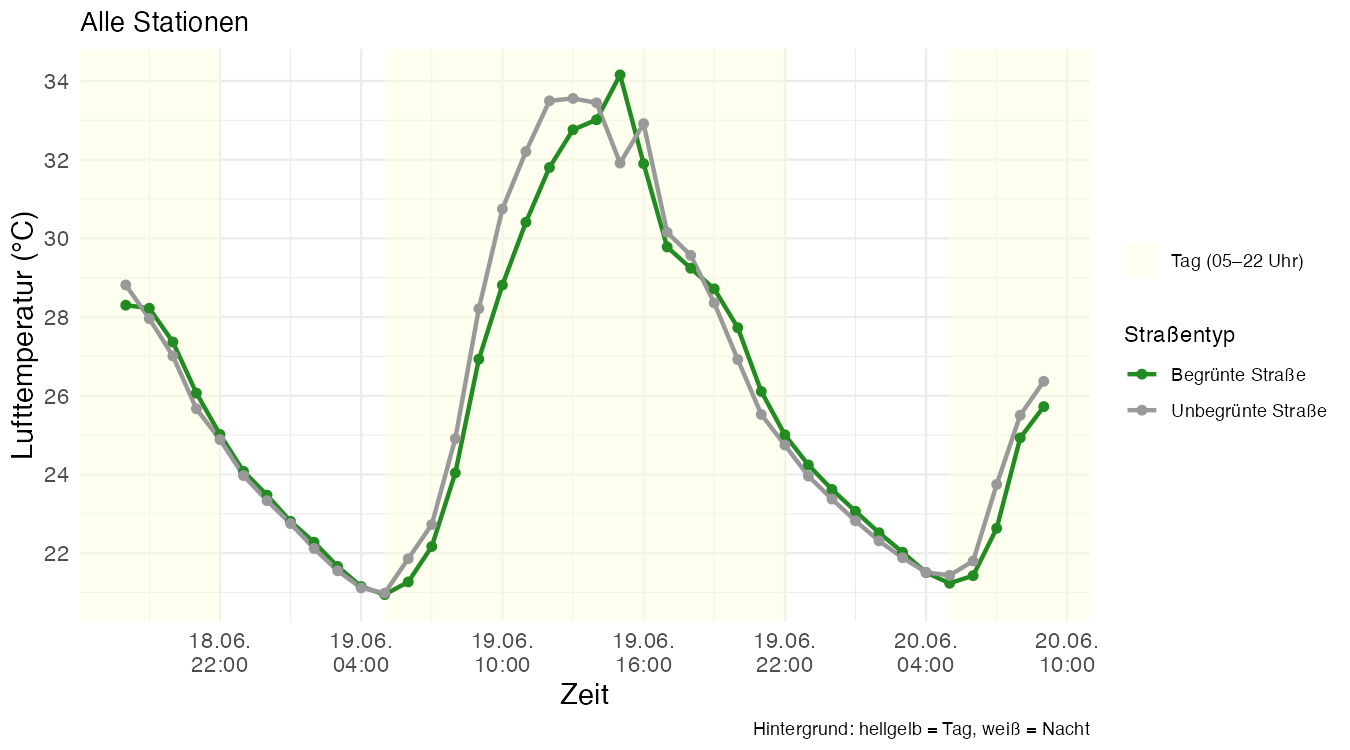
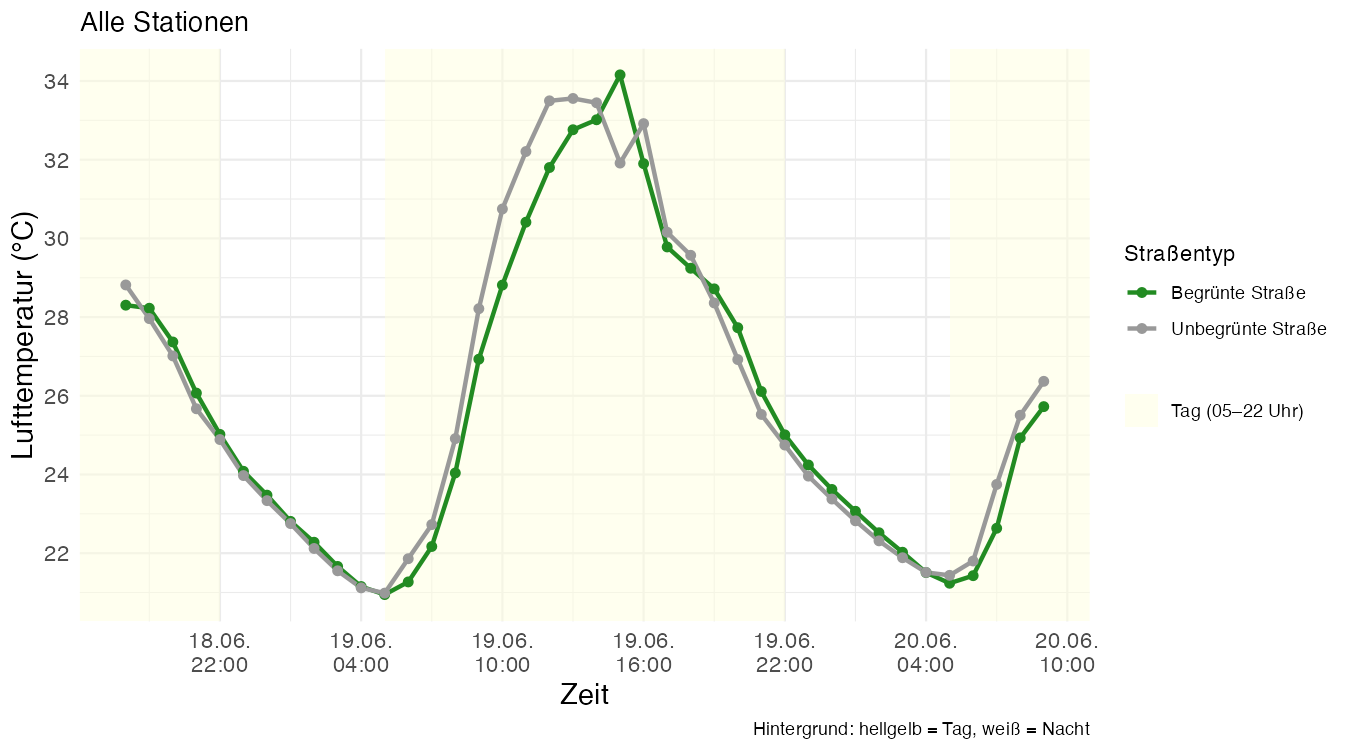
Portable Datenpfade und README fuer Setup
Datenpfad in allen Skripten portabel: Umgebungsvariable CAMPAIGN_RDS, sonst
data/ im Repo, sonst CONTEXT/ daneben. README mit Setup-Anleitung ergaenzt,
data/ und *.rds in .gitignore aufgenommen.

Changed region(s): [[0.84, 0.4907, 0.9956, 0.5827], [0.84, 0.3067, 0.9644, 0.3987], [0.84, 0.4293, 0.9956, 0.46]]

diff --git a/README.md b/README.md
@@ -1,0 +1,106 @@
+# Temperaturmessung 2026: Datenanalyse Stadtklima
+
+Auswertung einer städtischen Messkampagne, die eine **begrünte (baumbestandene) Straße** mit einer
+**unbegrünten Straße** vergleicht. Zentrale Frage: Bleibt die begrünte Straße kühler, und um wie
+viel, bei der **Lufttemperatur** und der **Oberflächentemperatur**?
+
+Die Kampagne umfasst 40 Messrunden über rund 40 Stunden (18. bis 20.06.2026) an 8 Stationen, davon
+4 an der begrünten Straße (Husemann) und 4 an der unbegrünten (Hagenauer).
+
+## Inhalt des Repositories
+
+```
+.
+├── CLAUDE.md            # ausführliches Projekt-Briefing (Daten, Spalten, Konventionen)
+├── README.md            # diese Datei
+├── skripte/             # R-Skripte, je ein Skript pro Auswertung
+│   ├── *.R              #   die Analyse
+│   ├── *.md             #   der zugehörige deutsche Ergebnisbericht (gleicher Name)
+│   └── wind_sidequest/  #   abgeschlossene Nebenuntersuchung Wind (kein klares Ergebnis)
+└── plots/               # erzeugte Grafiken (PNG)
+    └── wind_sidequest/  #   Grafiken der Wind-Nebenuntersuchung
+```
+
+Zu **jedem Skript** gehört eine gleichnamige `.md`-Datei mit dem Ergebnisbericht (verwendete Daten,
+Methode, Kennzahlen, Kurzinterpretation, Begriffe).
+
+### Die Auswertungen
+
+| Skript | Inhalt |
+|--------|--------|
+| `lufttemperatur_strassenvergleich.R` | Lufttemperatur im Zeitverlauf, begrünt vs. unbegrünt, mit Statistik |
+| `oberflaeche_boxplot.R` | Oberflächentemperatur (Boden/Wand) als Boxplots je Tageszeit, mit Kennzahlen |
+| `oberflaeche_zeitverlauf.R` | Oberflächentemperatur (Boden, Wand) im Zeitverlauf |
+| `einstrahlung_zeitverlauf.R` | Einstrahlung im Zeitverlauf (erklärt einen Ausreißer der Lufttemperatur) |
+| `wind_sidequest/` | Nebenuntersuchung, ob der Wind einen Ausreißer erklärt (Ergebnis: nein) |
+
+## Voraussetzungen
+
+- **R** ab Version 4.5
+- R-Pakete: `dplyr`, `tidyr`, `ggplot2`, `lubridate`, `scales` (alle in `tidyverse` enthalten)
+
+Installation der Pakete:
+
+```r
+install.packages(c("dplyr", "tidyr", "ggplot2", "lubridate", "scales"))
+# oder einfach: install.packages("tidyverse")
+```
+
+## Setup: Datendatei bereitstellen
+
+Die Analyse braucht die Datei **`campaign_2026.rds`**. Sie ist **nicht Teil dieses Repositories**
+(Forschungsdaten). Es gibt zwei Wege, sie den Skripten bekannt zu machen:
+
+**Variante A (empfohlen): Ordner `data/`**
+
+Lege die Datei unter `data/campaign_2026.rds` im Projektwurzelverzeichnis ab:
+
+```
+Abschlussbericht_FINAL/
+└── data/
+    └── campaign_2026.rds
+```
+
+Der Ordner `data/` ist per `.gitignore` vom Versionieren ausgeschlossen, die Daten landen also
+nicht versehentlich im Repository.
+
+**Variante B: Umgebungsvariable**
+
+Setze `CAMPAIGN_RDS` auf den vollständigen Pfad der Datei:
+
+```bash
+export CAMPAIGN_RDS="/pfad/zu/campaign_2026.rds"
+```
+
+Jedes Skript sucht die Datei automatisch in dieser Reihenfolge: zuerst `CAMPAIGN_RDS`, dann ein
+`data/`-Ordner, dann ein `CONTEXT/`-Ordner neben dem Repository. Wird nichts gefunden, bricht das
+Skript mit einer klaren Meldung ab.
+
+## Skripte ausführen
+
+Wichtig: Die Skripte werden **aus ihrem eigenen Ordner** ausgeführt, weil die Grafiken über
+relative Pfade (`../plots/`) gespeichert werden.
+
+```bash
+cd skripte
+Rscript lufttemperatur_strassenvergleich.R
+Rscript oberflaeche_boxplot.R
+Rscript oberflaeche_zeitverlauf.R
+Rscript einstrahlung_zeitverlauf.R
+
+# Nebenuntersuchung Wind
+cd wind_sidequest
+Rscript wind_mischung_strassenvergleich.R
+Rscript wind_effekt_strahlungskontrolle.R
+```
+
+Die Grafiken werden nach `plots/` geschrieben, die Kennzahlen erscheinen in der Konsole und stehen
+zusammengefasst in der jeweiligen `.md`-Datei neben dem Skript.
+
+## Hinweise zur Methode
+
+- Straßenzuordnung über `station_order`: 1 bis 4 begrünt, 5 bis 8 unbegrünt.
+- Viele Auswertungen zeigen zwei Varianten: **alle acht Stationen** und eine **Auswahl (2, 4, 5, 7)**
+  ohne die stark besonnten Stationen.
+- Statistische Vergleiche laufen **gepaart pro Runde**, um Pseudoreplikation zu vermeiden.
+- Details zu Daten, Spalten und Konventionen stehen in `CLAUDE.md`.